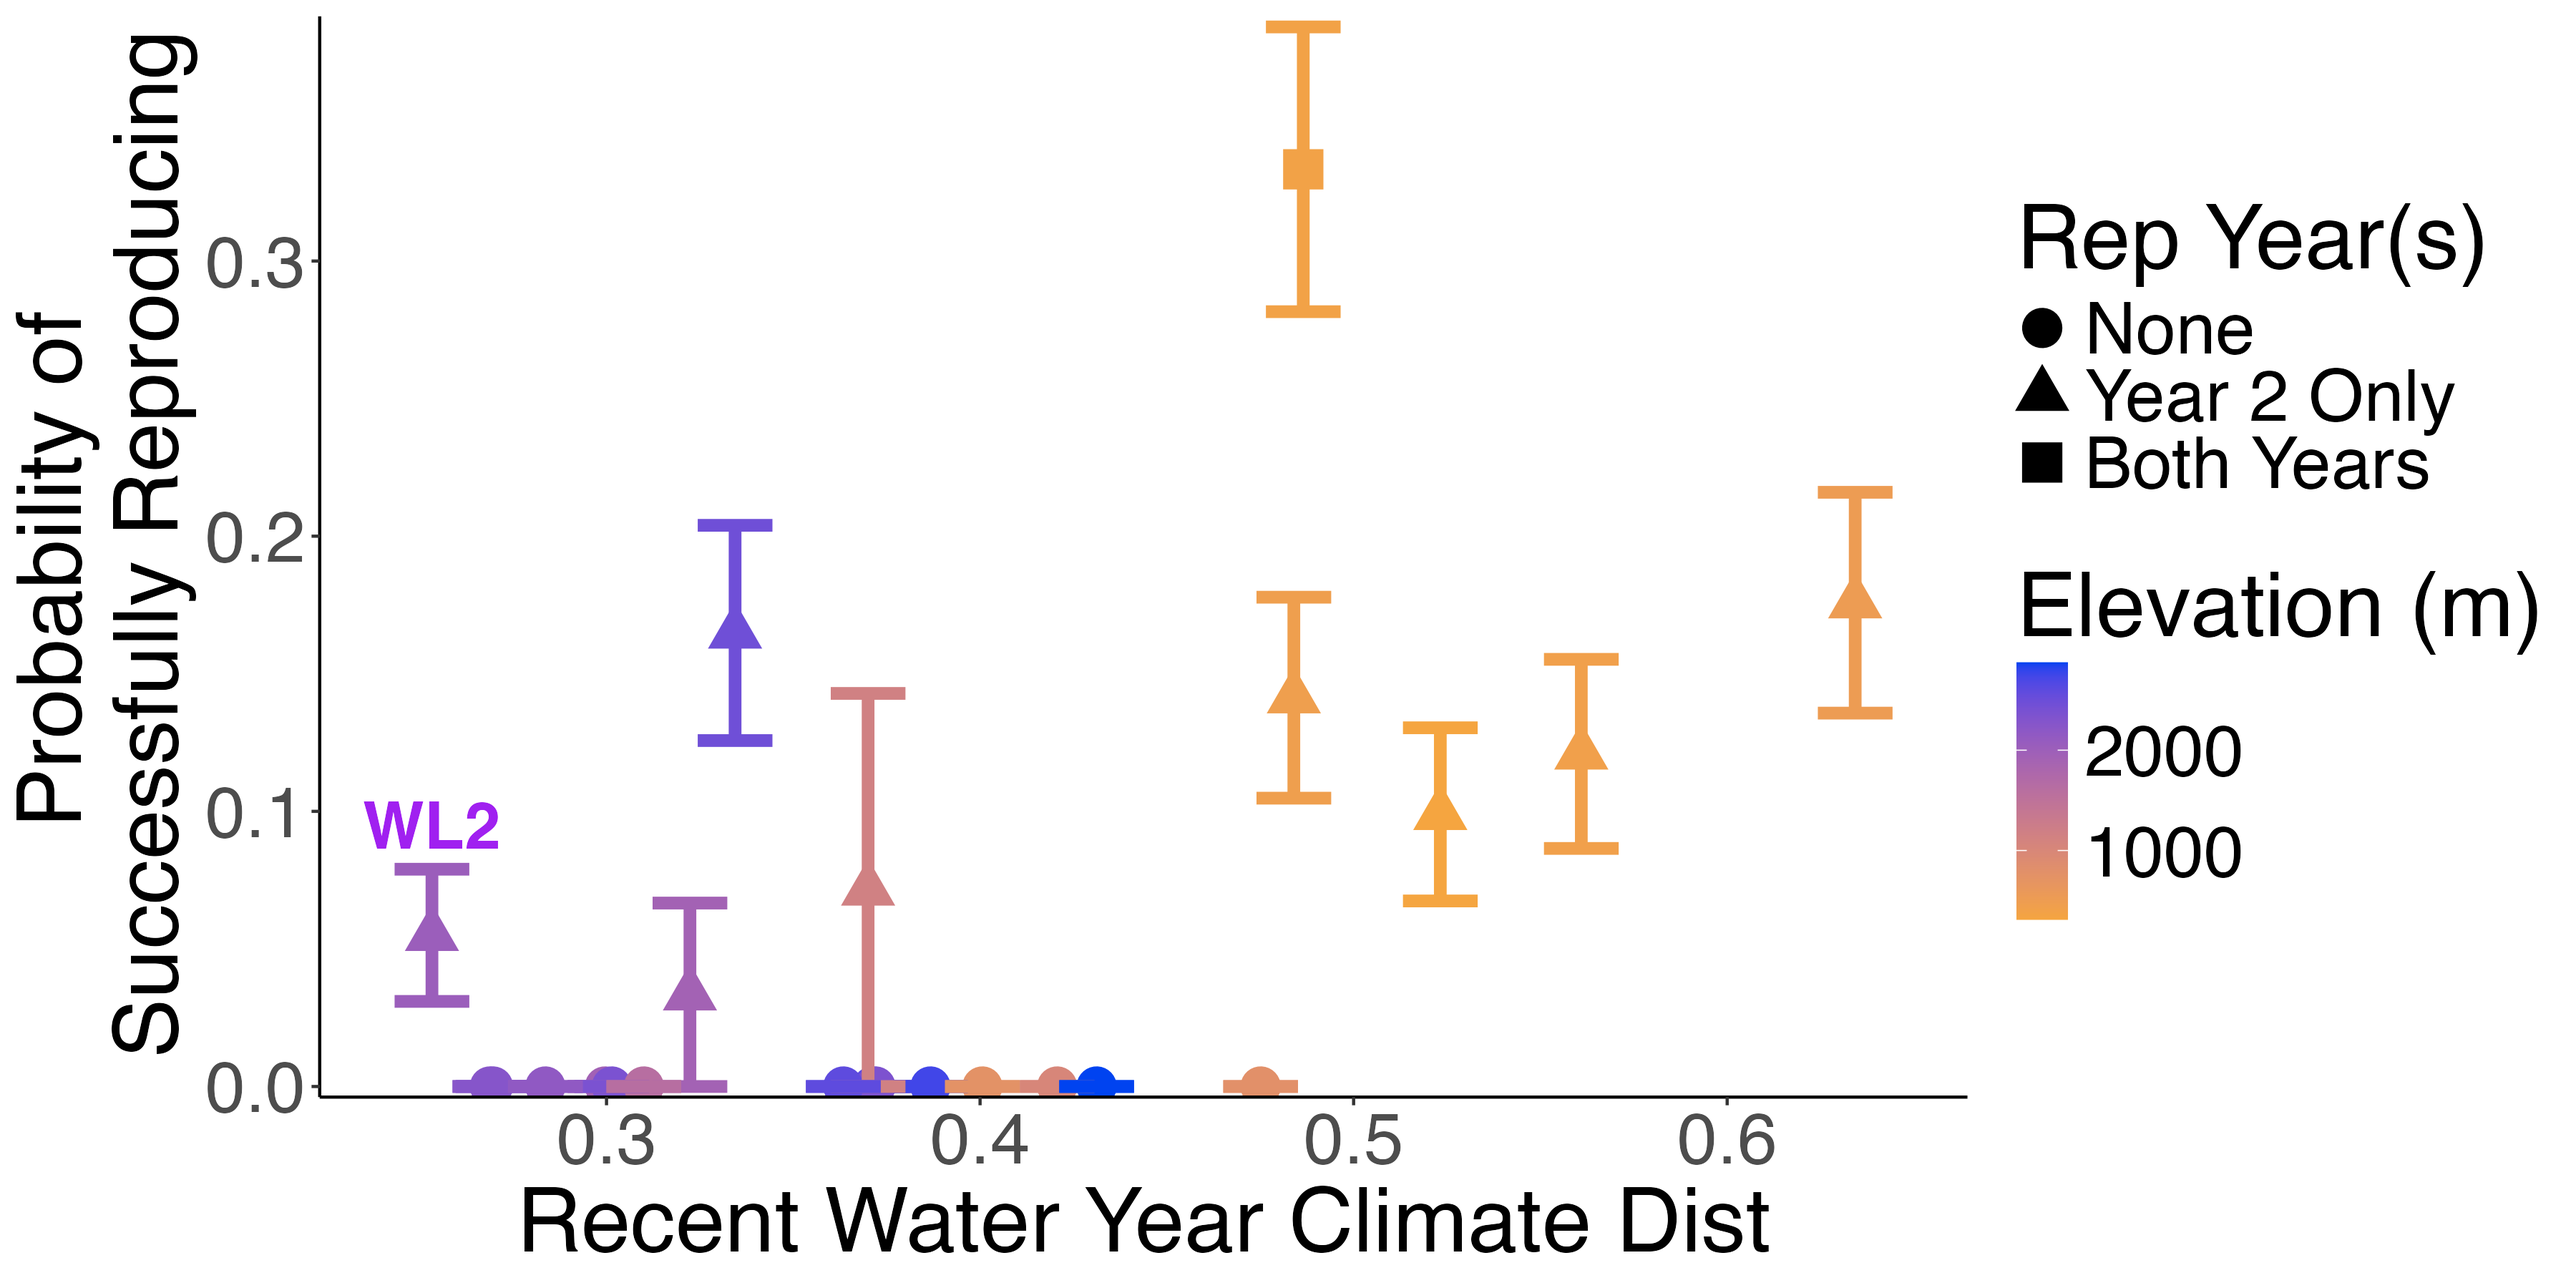
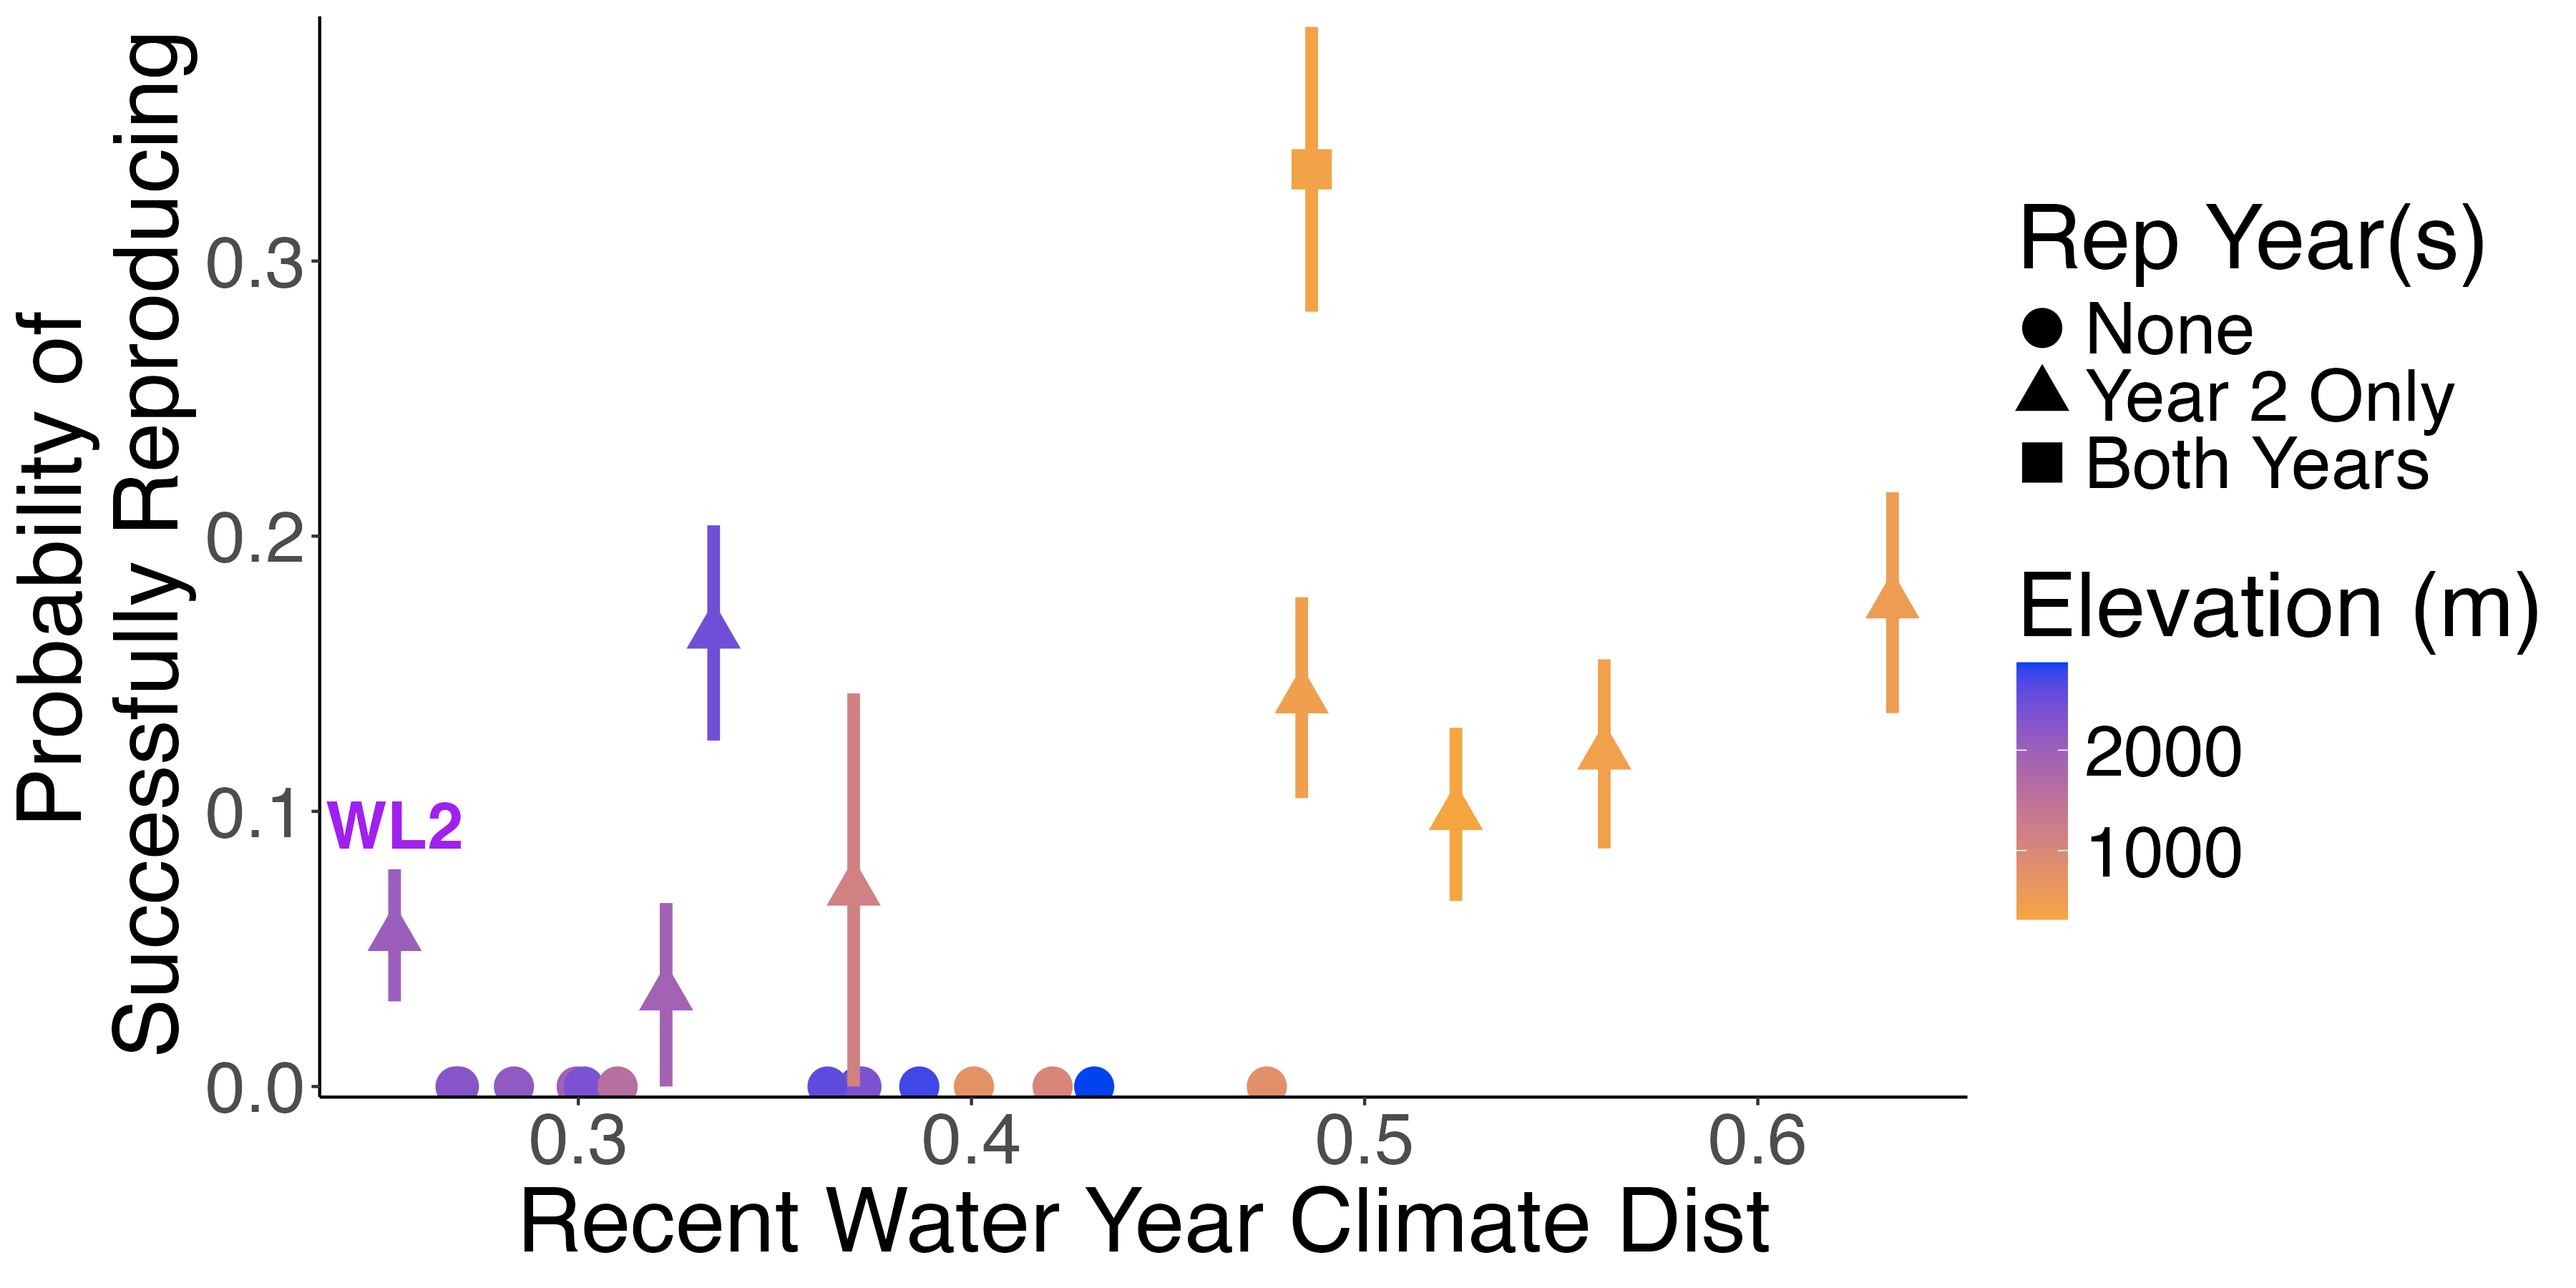
Fixed error bars.

diff --git a/Scripts/Clim_dist_fitness_figs.html b/Scripts/Clim_dist_fitness_figs.html
@@ -11,7 +11,7 @@
 
 <meta name="author" content="Brandie QC" />
 
-<meta name="date" content="2025-12-22" />
+<meta name="date" content="2026-01-26" />
 
 <title>Clim_dist_fitness_figs</title>
 
@@ -352,7 +352,7 @@ display: none;
 
 <h1 class="title toc-ignore">Clim_dist_fitness_figs</h1>
 <h4 class="author">Brandie QC</h4>
-<h4 class="date">2025-12-22</h4>
+<h4 class="date">2026-01-26</h4>
 
 </div>
 
@@ -471,10 +471,9 @@ sem &lt;- function(x, na.rm=FALSE) {           #for calculating standard error
 <h2>Read in the predictions from the models in
 “Clim_dist_fitness_models.Rmd”</h2>
 <pre class="r"><code>prob_rep_sub_preds &lt;- read_csv(&quot;../Processed.Data/ProbRep_SubPreds.csv&quot;) %&gt;% mutate(pop=NA)</code></pre>
-<pre><code>## Rows: 1573 Columns: 5
+<pre><code>## Rows: 23 Columns: 4
 ## ── Column specification ────────────────────────────────────────────────────────
 ## Delimiter: &quot;,&quot;
-## chr (1): name
 ## dbl (4): .pred, AvgTempDist_Recent_Wtr_Year, AvgPPTDist_Recent_Wtr_Year, Geo...
 ## 
 ## ℹ Use `spec()` to retrieve the full column specification for this data.
@@ -611,23 +610,23 @@ wl2_tot_fecundity_summary &lt;- wl2_tot_fecundity %&gt;%
   ggplot(aes(x=AvgTempDist_Recent_Wtr_Year, y=meanProbFit, group = pop, color=elev_m)) +
   scale_colour_gradient(low = &quot;#F5A540&quot;, high = &quot;#0043F0&quot;) +
   geom_point(aes(shape=RepYear), size=6) + 
-  geom_errorbar(aes(ymin=meanProbFit-semEst,ymax=meanProbFit+semEst),width=.3,linewidth = 2) +
+  geom_errorbar(aes(ymin=meanProbFit-semEst,ymax=meanProbFit+semEst),width=0,linewidth = 2) +
   annotate(&quot;text&quot;, x = 0.6194583, y= 0.095, label = &quot;WL2&quot;, 
            colour = &quot;purple&quot;, fontface=&quot;bold&quot;, size = 22 / .pt) +
-  #geom_line(data=prob_rep_sub_preds, aes(x=AvgTempDist_Recent_Wtr_Year, y=.pred), linewidth=2, colour=&quot;black&quot;, alpha=0.5) + 
+  geom_line(data=prob_rep_sub_preds, aes(x=AvgTempDist_Recent_Wtr_Year, y=.pred), linewidth=2, colour=&quot;black&quot;, alpha=0.5) + 
   theme_classic() + 
   scale_y_continuous(expand = c(0.01, 0)) +
   labs(y=&quot;Probability of \n Successfully Reproducing&quot;, x=&quot;Recent Water Year Temp Dist (°C)&quot;, 
        color=&quot;Elevation (m)&quot;, shape=&quot;Rep Year(s)&quot;) +
   theme(text=element_text(size=30))
-ggsave(&quot;../Figures/Indiv_Fit_Comps/ProbFit_TempDist_Recent_WtrYr.png&quot;,
+ggsave(&quot;../Figures/Indiv_Fit_Comps/ProbFit_TempDist_Recent_WtrYr_Preds.png&quot;,
        width = 12, height = 6, units = &quot;in&quot;)
 
 WYtemp_totfruit &lt;- wl2_tot_fecundity_summary %&gt;% 
   ggplot(aes(x=AvgTempDist_Recent_Wtr_Year, y=meanTotFruit, group = pop, colour = elev_m)) +
   scale_colour_gradient(low = &quot;#F5A540&quot;, high = &quot;#0043F0&quot;) +
   geom_point(size=6) + 
-  geom_errorbar(aes(ymin=meanTotFruit-semTotFruit,ymax=meanTotFruit+semTotFruit),width=.3,linewidth = 2) +
+  geom_errorbar(aes(ymin=meanTotFruit-semTotFruit,ymax=meanTotFruit+semTotFruit),width=0,linewidth = 2) +
   annotate(&quot;text&quot;, x = 1.3, y= 22.40000, label = &quot;WL2&quot;, 
            colour = &quot;purple&quot;, fontface=&quot;bold&quot;, size = 22 / .pt) +
   theme_classic() + 
@@ -649,7 +648,7 @@ ggsave(&quot;../Figures/Figure4_TmpPPT.png&quot;, width = 26, height = 9, units 
   ggplot(aes(x=AvgGD_Recent_Water_Yr, y=meanProbFit, group = pop, color=elev_m)) +
   scale_colour_gradient(low = &quot;#F5A540&quot;, high = &quot;#0043F0&quot;) +
   geom_point(aes(shape=RepYear), size=6) + 
-  geom_errorbar(aes(ymin=meanProbFit-semEst,ymax=meanProbFit+semEst),width=.02,linewidth = 2) +
+  geom_errorbar(aes(ymin=meanProbFit-semEst,ymax=meanProbFit+semEst),width=0,linewidth = 2) +
   annotate(&quot;text&quot;, x = 0.2532683, y= 0.095, label = &quot;WL2&quot;,  
            colour = &quot;purple&quot;, fontface=&quot;bold&quot;, size = 22 / .pt) +
   theme_classic() + 
@@ -664,7 +663,7 @@ tot_fit_gower &lt;- wl2_tot_fitness_summary %&gt;%
   ggplot(aes(x=AvgGD_Recent_Water.Year, y=meanTotFit, group = pop, color=elev_m)) +
   scale_colour_gradient(low = &quot;#F5A540&quot;, high = &quot;#0043F0&quot;) +
   geom_point(size=6) + 
-  geom_errorbar(aes(ymin=meanTotFit-semTotFit,ymax=meanTotFit+semTotFit),width=.02,linewidth = 2) +
+  geom_errorbar(aes(ymin=meanTotFit-semTotFit,ymax=meanTotFit+semTotFit),width=0,linewidth = 2) +
   theme_classic() + 
   scale_y_continuous(expand = c(0.01, 0)) +
   labs(y=&quot;Total Fitness&quot;, x=&quot;Recent Water Year Climate Dist&quot;, 
@@ -686,7 +685,7 @@ distance</h2>
   ggplot(aes(x=PPTDist_Recent_Wtr_Year_2023, y=meanEst, group = pop, color=elev_m)) +
   scale_colour_gradient(low = &quot;#F5A540&quot;, high = &quot;#0043F0&quot;) +
   geom_point(size=6) + 
-  geom_errorbar(aes(ymin=meanEst-semEst,ymax=meanEst+semEst),width=.3,linewidth = 2) +
+  geom_errorbar(aes(ymin=meanEst-semEst,ymax=meanEst+semEst),width=0,linewidth = 2) +
   annotate(&quot;text&quot;, x = -1120, y= 0.5714286, label = &quot;WL2&quot;, 
            colour = &quot;purple&quot;, fontface=&quot;bold&quot;, size = 22 / .pt) +
   theme_classic() + 
@@ -700,7 +699,7 @@ WYtemp_y1surv &lt;- y1surv_summary %&gt;%
   ggplot(aes(x=TempDist_Recent_Wtr_Year_2023, y=meanY1Surv, group = pop, colour = elev_m)) +
   scale_colour_gradient(low = &quot;#F5A540&quot;, high = &quot;#0043F0&quot;) +
   geom_point(size=6) + 
-  geom_errorbar(aes(ymin=meanY1Surv-semSurv,ymax=meanY1Surv+semSurv),width=.02,linewidth = 2) +
+  geom_errorbar(aes(ymin=meanY1Surv-semSurv,ymax=meanY1Surv+semSurv),width=0,linewidth = 2) +
   annotate(&quot;text&quot;, x = 1.635292, y= 0.88, label = &quot;WL2&quot;, 
            colour = &quot;purple&quot;, fontface=&quot;bold&quot;, size = 22 / .pt) +
   theme_classic() + 
@@ -714,7 +713,7 @@ WYppt_totfruit &lt;- wl2_tot_fecundity_summary %&gt;%
   ggplot(aes(x=AvgPPTDist_Historic_Wtr_Year, y=meanTotFruit, group = pop, color=elev_m)) +
   scale_colour_gradient(low = &quot;#F5A540&quot;, high = &quot;#0043F0&quot;) +
   geom_point(size=6) + 
-  geom_errorbar(aes(ymin=meanTotFruit-semTotFruit,ymax=meanTotFruit+semTotFruit),width=.02, linewidth = 2) +
+  geom_errorbar(aes(ymin=meanTotFruit-semTotFruit,ymax=meanTotFruit+semTotFruit),width=0, linewidth = 2) +
   annotate(&quot;text&quot;, x = -545, y= 22.40000, label = &quot;WL2&quot;, 
            colour = &quot;purple&quot;, fontface=&quot;bold&quot;, size = 22 / .pt) +
   theme_classic() + 
@@ -726,7 +725,7 @@ WYtemp_repsurvy2 &lt;- wl2_surv_to_bud_y2_summary %&gt;%
   ggplot(aes(x=TempDist_Recent_Wtr_Year_2024, y=meanSurvtoBudY2, group = pop, colour = elev_m)) +
   scale_colour_gradient(low = &quot;#F5A540&quot;, high = &quot;#0043F0&quot;) +
   geom_point(size=6) + 
-  geom_errorbar(aes(ymin=meanSurvtoBudY2-semEst,ymax=meanSurvtoBudY2+semEst),width=.3,linewidth = 2) +
+  geom_errorbar(aes(ymin=meanSurvtoBudY2-semEst,ymax=meanSurvtoBudY2+semEst),width=0,linewidth = 2) +
   annotate(&quot;text&quot;, x = 0.4, y= 0.8333333, label = &quot;WL2&quot;, 
            colour = &quot;purple&quot;, fontface=&quot;bold&quot;, size = 22 / .pt) +
   theme_classic() + 
@@ -750,7 +749,7 @@ distance</h2>
   ggplot(aes(x=GD_Recent_Wtr_Year_2023, y=meanY1Surv, group = pop, colour = elev_m)) +
   scale_colour_gradient(low = &quot;#F5A540&quot;, high = &quot;#0043F0&quot;) +
   geom_point(size=6) + 
-  geom_errorbar(aes(ymin=meanY1Surv-semSurv,ymax=meanY1Surv+semSurv),width=.02,linewidth = 2) +
+  geom_errorbar(aes(ymin=meanY1Surv-semSurv,ymax=meanY1Surv+semSurv),width=0,linewidth = 2) +
   annotate(&quot;text&quot;, x = 0.38, y= 0.7884615, label = &quot;WL2&quot;, 
            colour = &quot;purple&quot;, fontface=&quot;bold&quot;, size = 22 / .pt) +
   theme_classic() + 
@@ -764,7 +763,7 @@ wintersurv_gower &lt;- wintersurv_summary %&gt;%
   ggplot(aes(x=GD_Recent_Wtr_Year_2024, y=meanWintSurv, group = pop, colour = elev_m)) +
   scale_colour_gradient(low = &quot;#F5A540&quot;, high = &quot;#0043F0&quot;) +
   geom_point(size=6) + 
-  geom_errorbar(aes(ymin=meanWintSurv-semSurv,ymax=meanWintSurv+semSurv),width=.02,linewidth = 2) +
+  geom_errorbar(aes(ymin=meanWintSurv-semSurv,ymax=meanWintSurv+semSurv),width=0,linewidth = 2) +
   annotate(&quot;text&quot;, x = 0.1453708, y= 0.24, label = &quot;WL2&quot;, 
            colour = &quot;purple&quot;, fontface=&quot;bold&quot;, size = 22 / .pt) +
   theme_classic() + 
@@ -786,7 +785,7 @@ ggsave(&quot;../Figures/FigureS6_WTRYRGowers.png&quot;, width = 26, height = 9, 
   ggplot(aes(x=TempDist_Recent_GrwSsn_2023, y=meanEst, group = pop, colour = elev_m)) +
   scale_colour_gradient(low = &quot;#F5A540&quot;, high = &quot;#0043F0&quot;) +
   geom_point(size=6) + 
-  geom_errorbar(aes(ymin=meanEst-semEst,ymax=meanEst+semEst),width=.02, linewidth = 2) +
+  geom_errorbar(aes(ymin=meanEst-semEst,ymax=meanEst+semEst),width=0, linewidth = 2) +
   annotate(&quot;text&quot;, x = 0.11881672, y= 0.65, label = &quot;WL2&quot;, 
            colour = &quot;purple&quot;, fontface=&quot;bold&quot;, size = 22 / .pt) +
   theme_classic() + 
@@ -799,7 +798,7 @@ est_ppt &lt;- est_summary %&gt;%
   ggplot(aes(x=PPTDist_Recent_GrwSsn_2023, y=meanEst, group = pop, colour = elev_m)) +
   scale_colour_gradient(low = &quot;#F5A540&quot;, high = &quot;#0043F0&quot;) +
   geom_point(size=6) + 
-  geom_errorbar(aes(ymin=meanEst-semEst,ymax=meanEst+semEst),width=.02, linewidth = 2) +
+  geom_errorbar(aes(ymin=meanEst-semEst,ymax=meanEst+semEst),width=0, linewidth = 2) +
   annotate(&quot;text&quot;, x = 107.33533, y= 0.65, label = &quot;WL2&quot;, 
            colour = &quot;purple&quot;, fontface=&quot;bold&quot;, size = 22 / .pt) +
   theme_classic() + 
@@ -812,7 +811,7 @@ totrep_temp &lt;- wl2_tot_fecundity_summary %&gt;%
   ggplot(aes(x=AvgTempDist_Recent_GrwSsn, y=meanTotFruit, group = pop, color=elev_m)) +
   scale_colour_gradient(low = &quot;#F5A540&quot;, high = &quot;#0043F0&quot;) +
   geom_point(size=6) + 
-  geom_errorbar(aes(ymin=meanTotFruit-semTotFruit,ymax=meanTotFruit+semTotFruit),width=.02, linewidth = 2) +
+  geom_errorbar(aes(ymin=meanTotFruit-semTotFruit,ymax=meanTotFruit+semTotFruit),width=0, linewidth = 2) +
   annotate(&quot;text&quot;, x = -1.6, y= 22.40000, label = &quot;WL2&quot;, 
            colour = &quot;purple&quot;, fontface=&quot;bold&quot;, size = 22 / .pt) +
   theme_classic() + 
@@ -824,7 +823,7 @@ totrep_ppt &lt;- wl2_tot_fecundity_summary %&gt;%
   ggplot(aes(x=AvgPPTDist_Recent_GrwSsn, y=meanTotFruit, group = pop, color=elev_m)) +
   scale_colour_gradient(low = &quot;#F5A540&quot;, high = &quot;#0043F0&quot;) +
   geom_point(size=6) + 
-  geom_errorbar(aes(ymin=meanTotFruit-semTotFruit,ymax=meanTotFruit+semTotFruit),width=.02, linewidth = 2) +
+  geom_errorbar(aes(ymin=meanTotFruit-semTotFruit,ymax=meanTotFruit+semTotFruit),width=0, linewidth = 2) +
   annotate(&quot;text&quot;, x = 150, y= 22.40000, label = &quot;WL2&quot;, 
            colour = &quot;purple&quot;, fontface=&quot;bold&quot;, size = 22 / .pt) +
   theme_classic() + 
@@ -845,7 +844,7 @@ ggsave(&quot;../Figures/FigureS7_GrwSsnTmpPPT.png&quot;, width = 26, height = 18
   ggplot(aes(x=GD_Recent_GrwSsn_2023, y=meanEst, group = pop, colour = elev_m)) +
   scale_colour_gradient(low = &quot;#F5A540&quot;, high = &quot;#0043F0&quot;) +
   geom_point(size=6) + 
-  geom_errorbar(aes(ymin=meanEst-semEst,ymax=meanEst+semEst),width=.02, linewidth = 2) +
+  geom_errorbar(aes(ymin=meanEst-semEst,ymax=meanEst+semEst),width=0, linewidth = 2) +
   annotate(&quot;text&quot;, x = 0.2450035, y= 0.65, label = &quot;WL2&quot;, 
            colour = &quot;purple&quot;, fontface=&quot;bold&quot;, size = 22 / .pt) +
   theme_classic() + 
@@ -858,7 +857,7 @@ y1_surv_gowers &lt;- y1surv_summary %&gt;%
   ggplot(aes(x=GD_Historic_GrwSsn_2023, y=meanY1Surv, group = pop, colour = elev_m)) +
   scale_colour_gradient(low = &quot;#F5A540&quot;, high = &quot;#0043F0&quot;) +
   geom_point(size=6) + 
-  geom_errorbar(aes(ymin=meanY1Surv-semSurv,ymax=meanY1Surv+semSurv),width=.02,linewidth = 2) +
+  geom_errorbar(aes(ymin=meanY1Surv-semSurv,ymax=meanY1Surv+semSurv),width=0,linewidth = 2) +
   annotate(&quot;text&quot;, x = 0.228, y= 0.7884615, label = &quot;WL2&quot;, 
            colour = &quot;purple&quot;, fontface=&quot;bold&quot;, size = 22 / .pt) +
   theme_classic() + 
@@ -870,7 +869,7 @@ totrep_gowers &lt;- wl2_tot_fecundity_summary %&gt;%
   ggplot(aes(x=`AvgGD_Recent_Growth Season`, y=meanTotFruit, group = pop, color=elev_m)) +
   scale_colour_gradient(low = &quot;#F5A540&quot;, high = &quot;#0043F0&quot;) +
   geom_point(size=6) + 
-  geom_errorbar(aes(ymin=meanTotFruit-semTotFruit,ymax=meanTotFruit+semTotFruit),width=.02, linewidth = 2) +
+  geom_errorbar(aes(ymin=meanTotFruit-semTotFruit,ymax=meanTotFruit+semTotFruit),width=0, linewidth = 2) +
   annotate(&quot;text&quot;, x = 0.235    , y= 22.40000, label = &quot;WL2&quot;, 
            colour = &quot;purple&quot;, fontface=&quot;bold&quot;, size = 22 / .pt) +
   theme_classic() + 
@@ -891,7 +890,7 @@ ggsave(&quot;../Figures/FigureS8_GRWSSNGowers.png&quot;, width = 26, height = 18
   ggplot(aes(x=Geographic_Dist, y=meanEst, group = pop, color=elev_m)) +
   scale_colour_gradient(low = &quot;#F5A540&quot;, high = &quot;#0043F0&quot;) +
   geom_point(size=6) + 
-  geom_errorbar(aes(ymin=meanEst-semEst,ymax=meanEst+semEst),width=.02, linewidth = 2) +
+  geom_errorbar(aes(ymin=meanEst-semEst,ymax=meanEst+semEst),width=0, linewidth = 2) +
   annotate(&quot;text&quot;, x = 136.2622, y=0.50, label = &quot;WL2&quot;, 
            colour = &quot;purple&quot;, fontface=&quot;bold&quot;, size = 22 / .pt) +
   theme_classic() + 
@@ -904,7 +903,7 @@ probfit_geo &lt;- prob_fitness_summary %&gt;%
   ggplot(aes(x=Geographic_Dist, y=meanProbFit, group = pop, color=elev_m)) +
   scale_colour_gradient(low = &quot;#F5A540&quot;, high = &quot;#0043F0&quot;) +
   geom_point(aes(shape=RepYear), size=6) + 
-  geom_errorbar(aes(ymin=meanProbFit-semEst,ymax=meanProbFit+semEst),width=.2, linewidth = 2) +
+  geom_errorbar(aes(ymin=meanProbFit-semEst,ymax=meanProbFit+semEst),width=0, linewidth = 2) +
   annotate(&quot;text&quot;, x = 136.2622, y= 0.095, label = &quot;WL2&quot;, 
            colour = &quot;purple&quot;, fontface=&quot;bold&quot;, size = 22 / .pt) +
   theme_classic() + 
